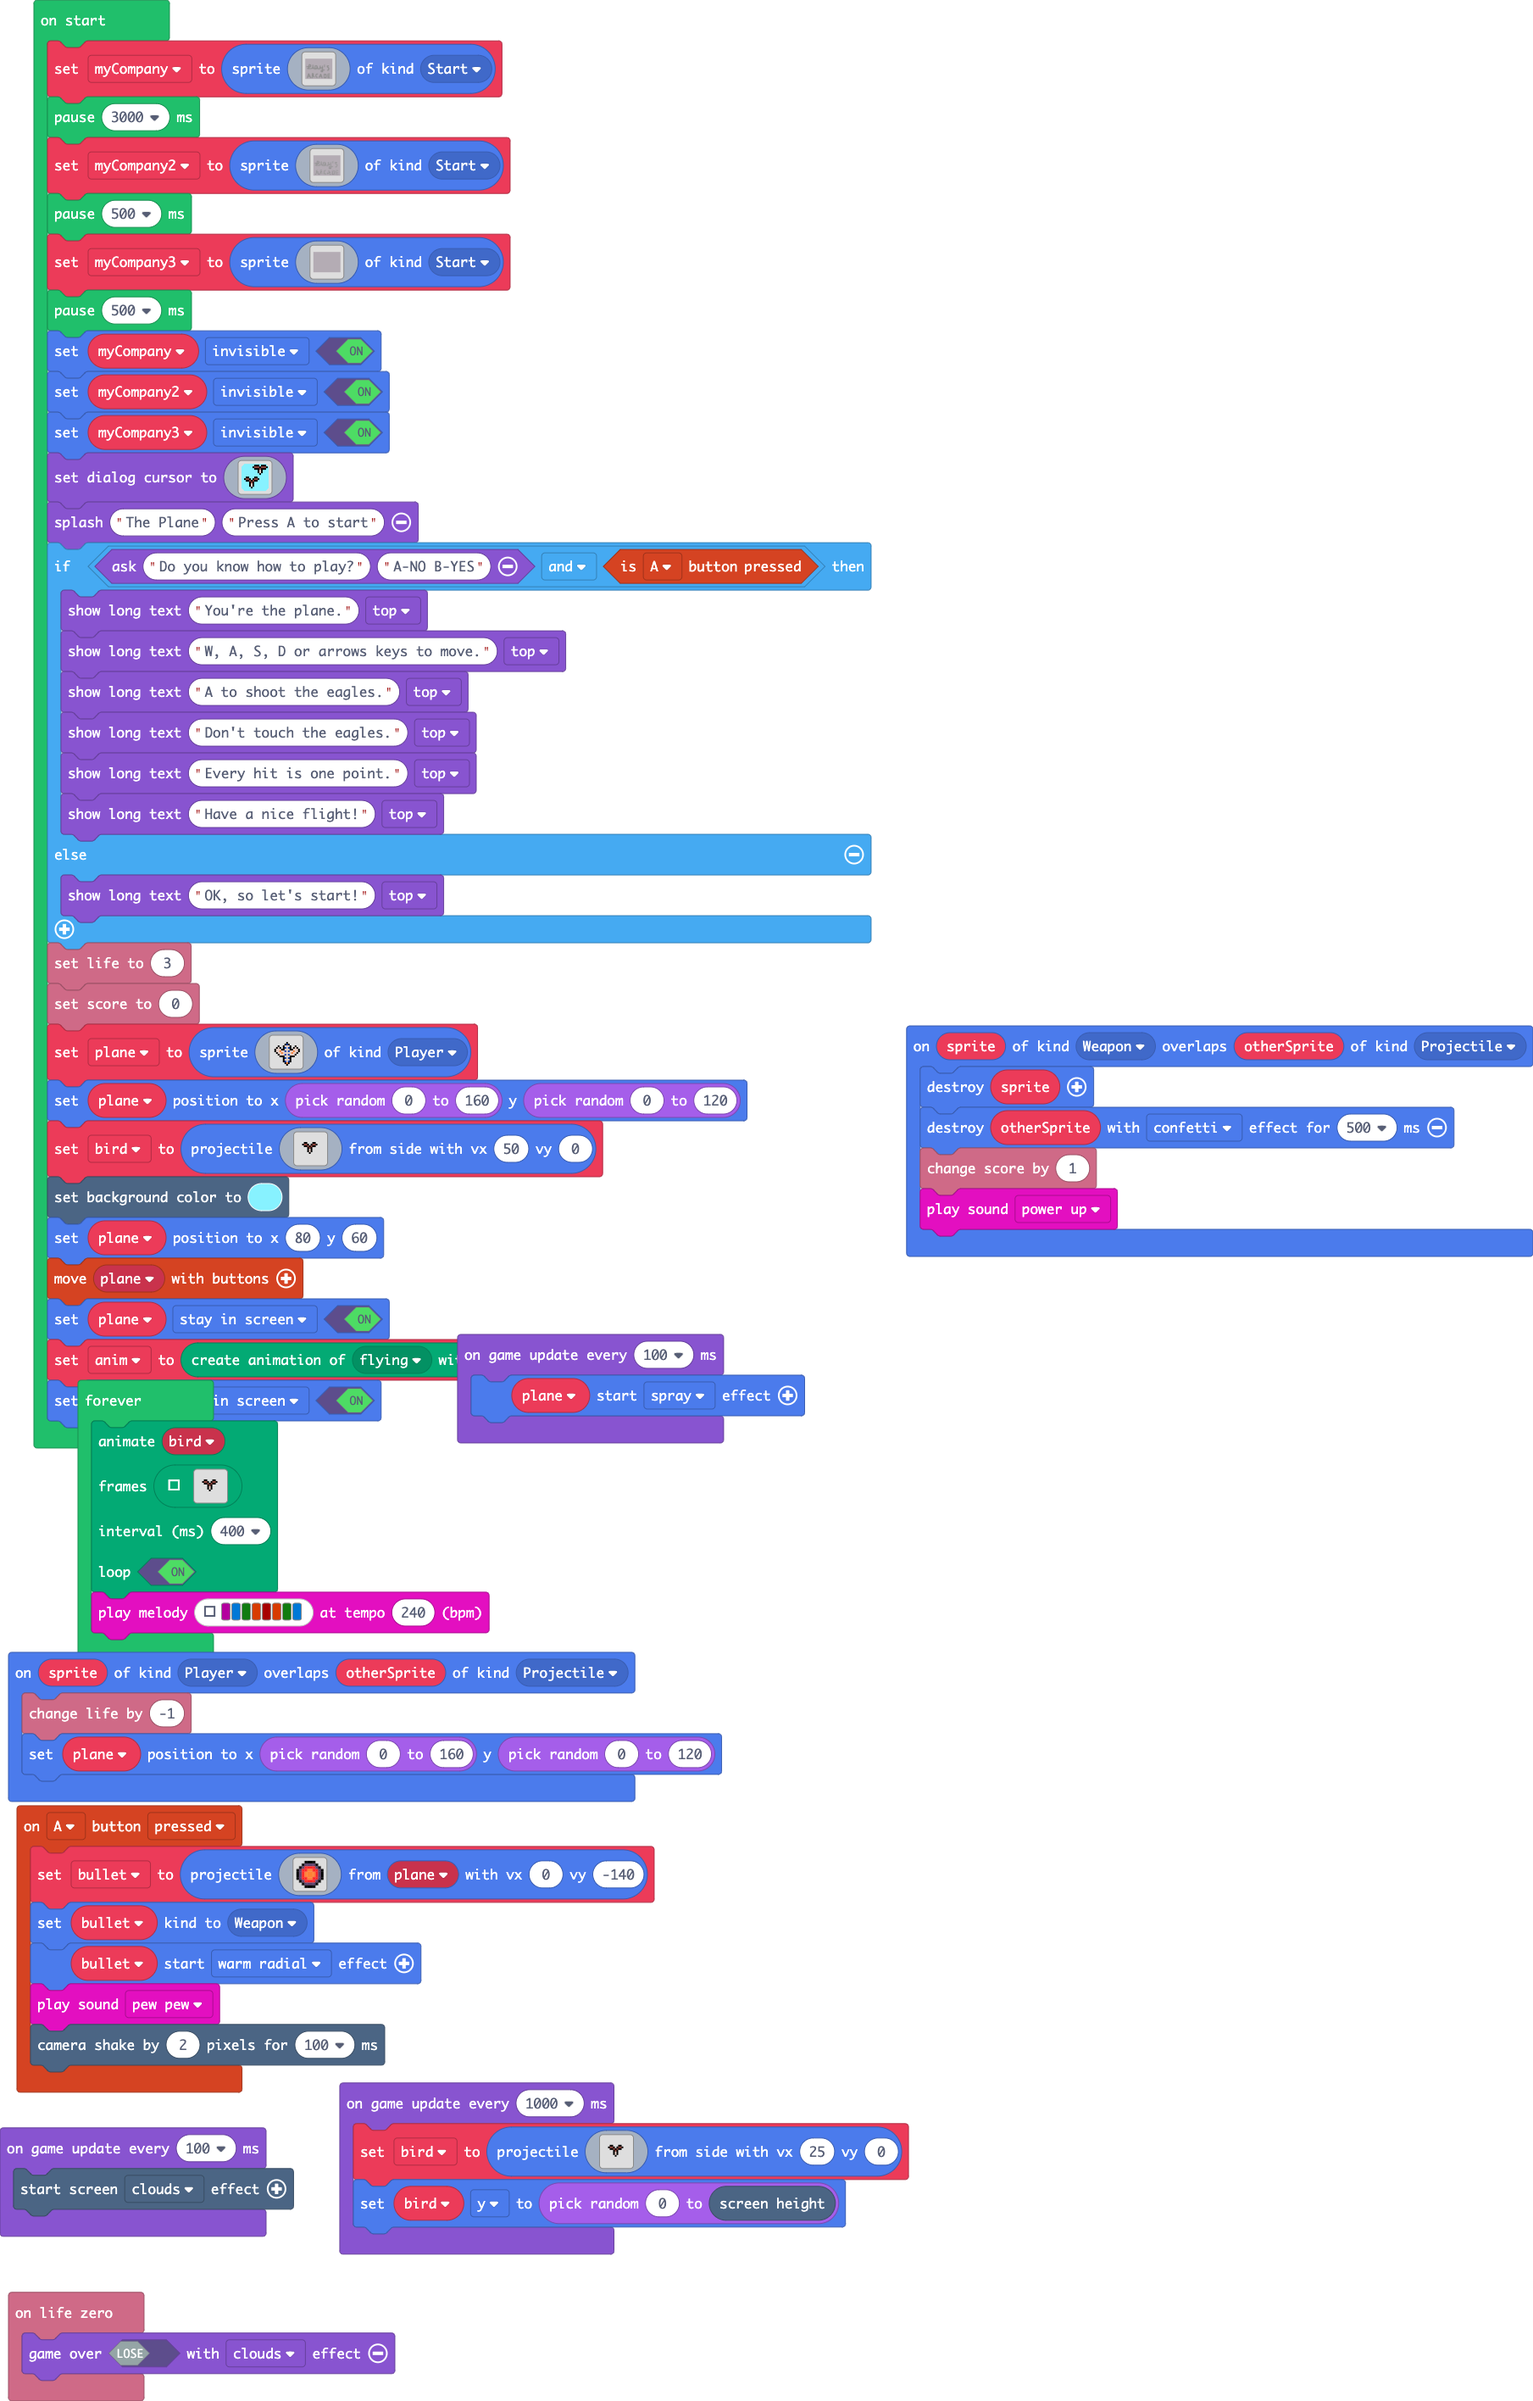
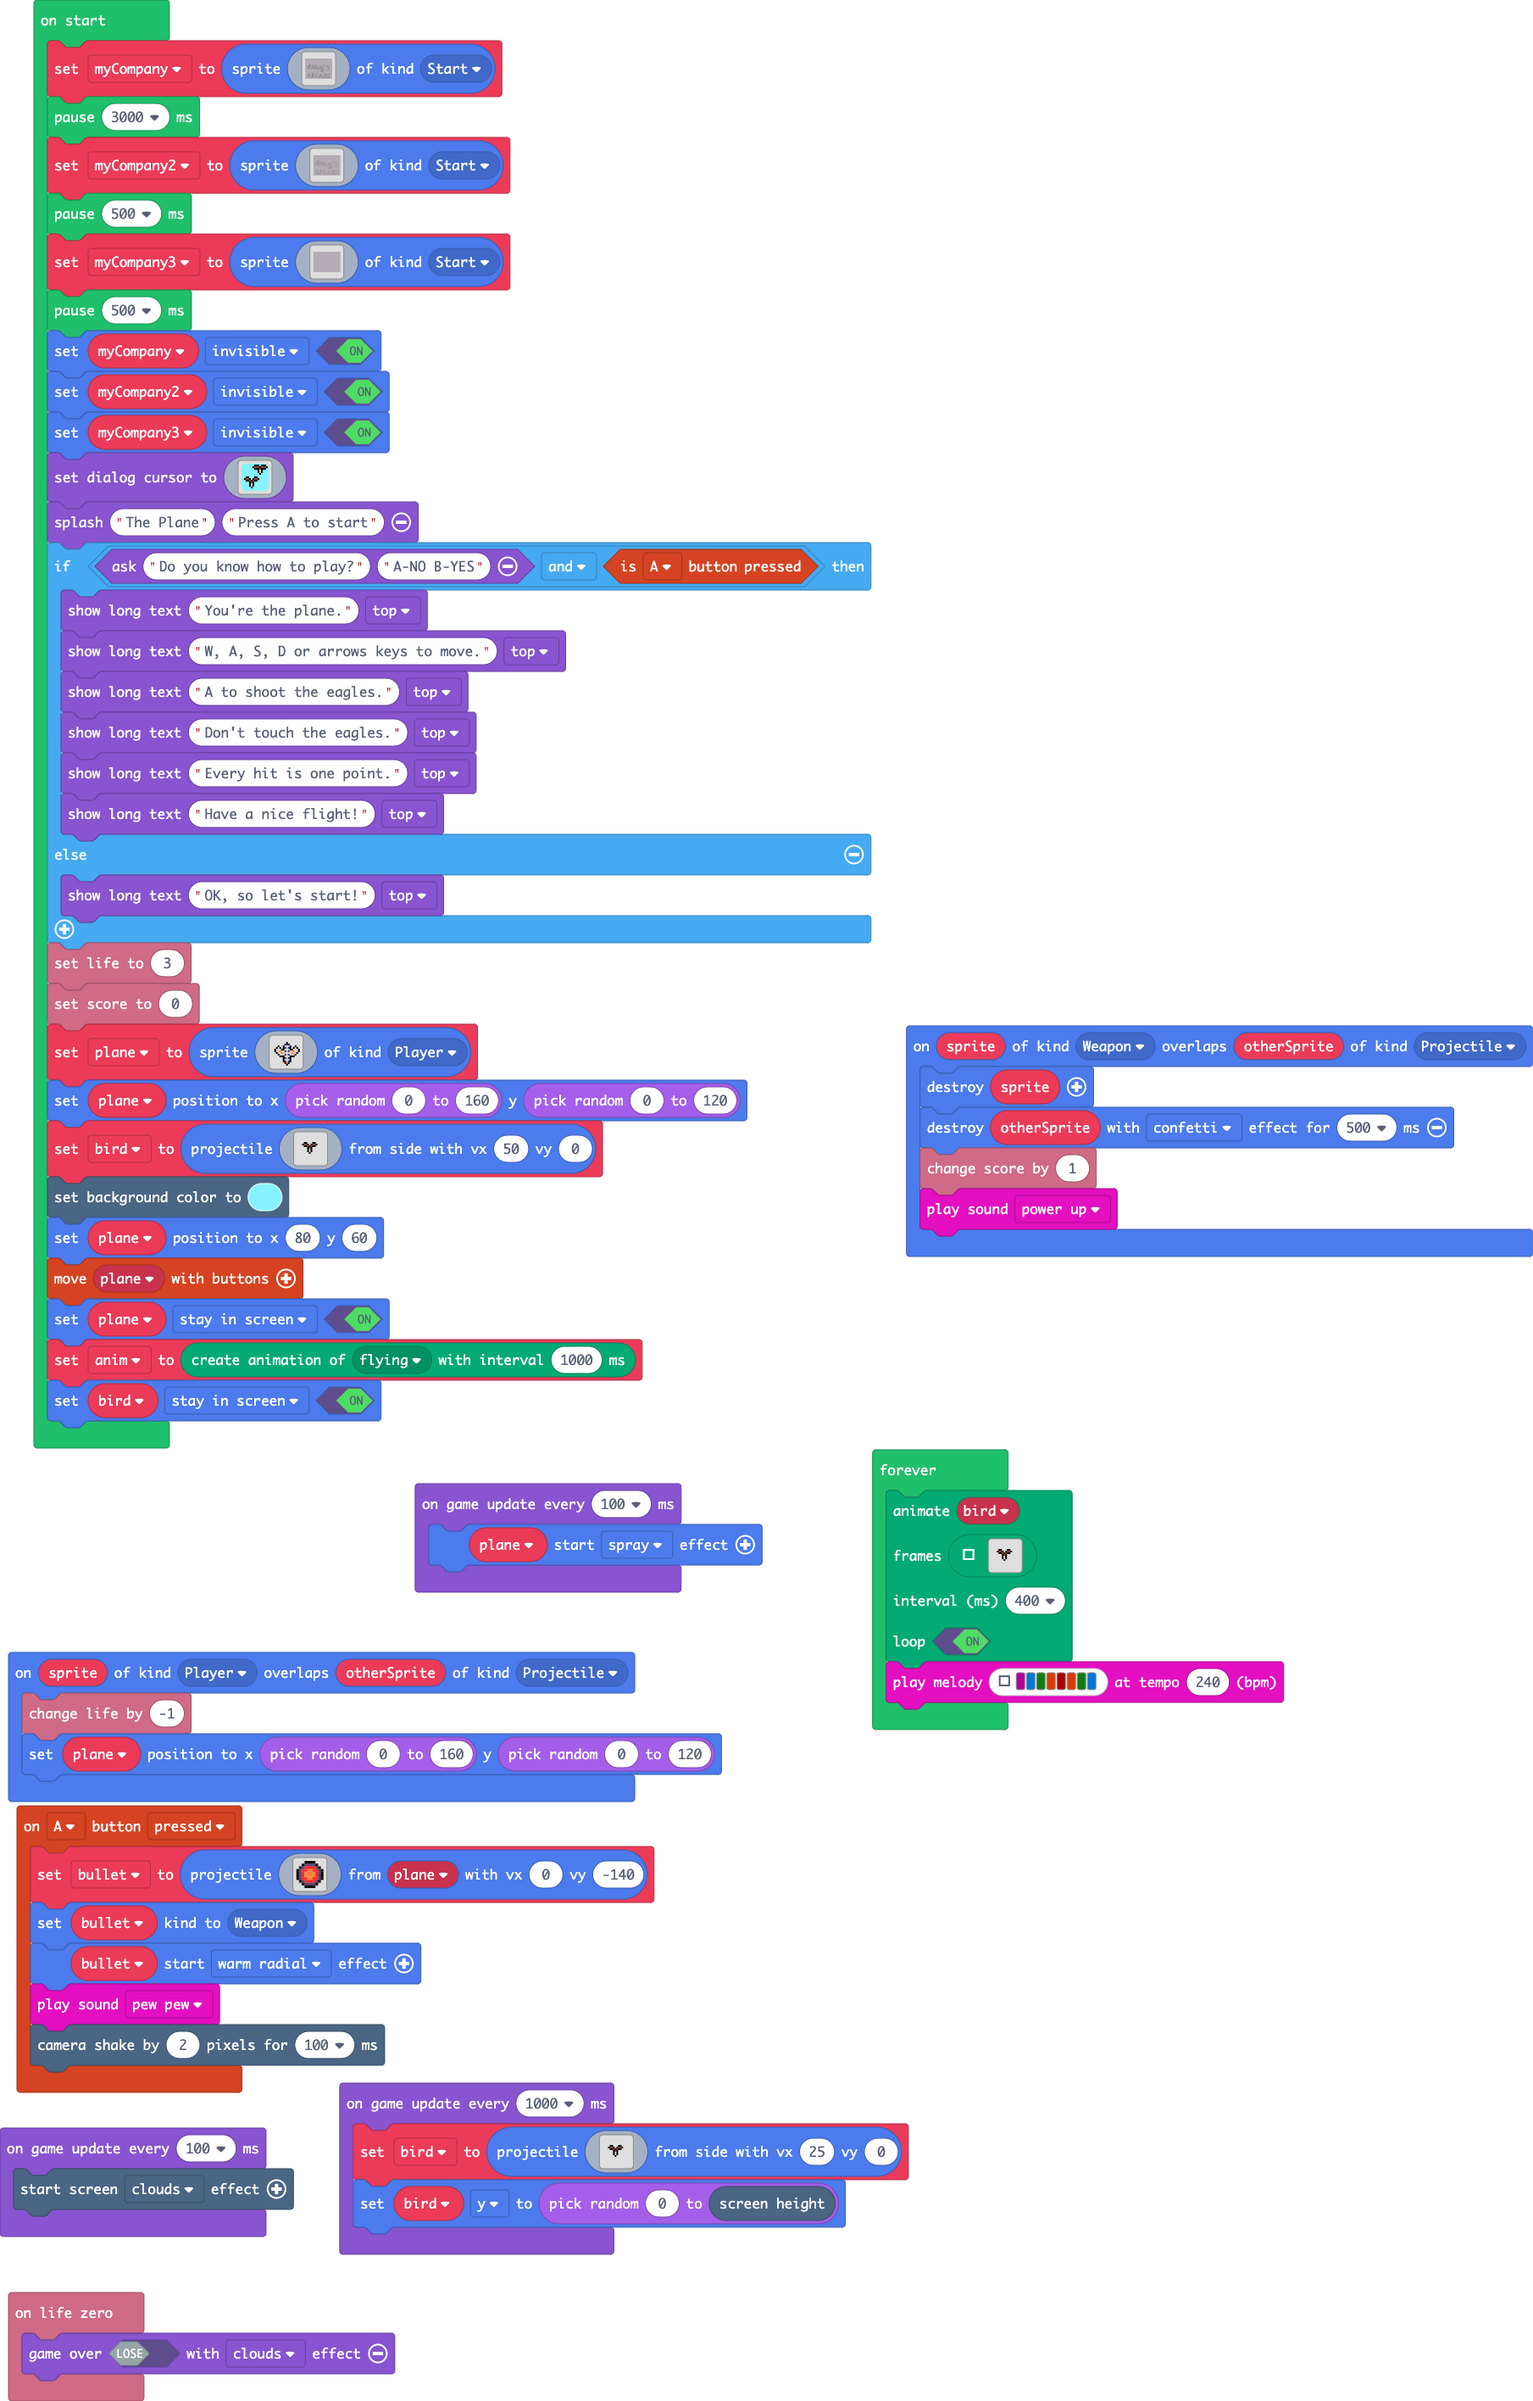
Update main.blocks, main.ts

Changed region(s): [[0.031, 0.5282, 0.5263, 0.7147], [0.5572, 0.5904, 0.8358, 0.7458]]

diff --git a/main.ts b/main.ts
@@ -84,11 +84,11 @@ c c c c c c c c c c c c c c c c c c c c f f f f f f f f f f f f f f f c c c c c 
 c c c c c c c c c c c c c c c c c c c f f f f f f f c f f f f f f f f c c c c c c c c f f f f f c c c c c c c c c c c c c f f f f f f f c c c c c c c c c c c c c c c c c c c c c c c c c c c c c c c c c c c c c c c c c c c c f f f f f c c c c c c c c c c c c c c c c c c c c c c c c c c c c c c c c c c c c c c c c c c c 
 c c c c c c c c c c c c c c c c c c c f f f f f f c c c c f f f f f f f c c c c c c c f f f f f c c c c c c c c c c c f f f f f f f f f f f c c c c c c c c c c c c c c c c c c c c c c c c c c c c c c c c c c c c c c c c c c f f f f f c c c c c c c c c c c c c f f f f f f f f f f c c c c c c c c c c c c c c c c c c c c 
 c c c c c c c c c c c c c c c c c c c f f f f f f c c c c c f f f f f f c c c c c c c f f f f f c c c c c c c c c c f f f f f f f f f f f f f c c c c c c c c c c c c c c c c f f f f f c c c c c c c c c c c c c c c c c c c c f f f f f c c c c c c c c c c c f f f f f f f f f f f f c c c c c c c c c c c c c c c c c c c c 
-c c c c c c c c c c c c c c c c c c c f f f f f f c c c c c f f f f f f c c c c c c c f f f f f f c c c c c c c c f f f f f f f f f f f f f f f c c c c c c c c c c c c c c f f f f f f c c c c c c c c f f f f f c c c c c c c f f f f f c c c c c c c c c c c f f f f f f f f f f f f c c c c c c c c c c c c c c c c c c c c 
-c c c c c c c c c c c c c c c c c c c f f f f f f c c c c f f f f f f f c c c c c c c f f f f f f c c c c c c c f f f f f f f f f f f f f f f f f c c c c c c c c c c c c c f f f f f f c c c c c c c c f f f f f c c c c c c c f f f f f c c c c c c c c c c c f f f f f f f f f f f f c c c c c c c c c c c c c c c c c c c c 
-c c c c c c c f f f f f f c c c c c c f f f f f f c c c f f f f f f f f c c c c c c c f f f f f f c c c c c c c f f f f f f f f f f f f f f f f f c c c c c c c c c c c c c f f f f f f c c c c c c c c f f f f f c c c c c c c f f f f f c c c c c c c c c c c f f f f f f f f f f f f c c c c c c c c c c c c c c c c c c c c 
-c c c c c c c f f f f f f f f f f f f f f f f f f f f f f f f f f f f f c c c c c c c f f f f f f c c c c c c c f f f f f f f c c c f f f f f f f f c c c c c c c c c c c c f f f f f f c c c c c c c c f f f f f c c c c c c c f f f f f c c c c c c c c c c c f f f f f f c c c c c c c c c c c c c c c c c c c c c c c c c c 
-c c c c c c c f f f f f f f f f f f f f f f f f f f f f f f f f f f f c c c c c c c c f f f f f f c c c c c c c f f f f f f c c c c c f f f f f f f c c c c c c c c c c c c f f f f f f c c c c c c c f f f f f f c c c c c c c f f f f f c c c c c c c c c c c f f f f f f c c c c c c c c c c c c c c c c c c c c c c c c c c 
+c c c c c c c c c c c c c c c c c c c f f f f f f c c c c c f f f f f f c c f f f f f f f f f f f f f f f c c c c f f f f f f f f f f f f f f f c c c c c c c c c c c c c c f f f f f f c c c c c c c c f f f f f c c c c c c c f f f f f c c c c c c c c c c c f f f f f f f f f f f f c c c c c c c c c c c c c c c c c c c c 
+c c c c c c c c c c c c c c c c c c c f f f f f f c c c c f f f f f f f c c f f f f f f f f f f f f f f f c c c f f f f f f f f f f f f f f f f f c c c c c c c c c c c c c f f f f f f c c c c c c c c f f f f f c c c c c c c f f f f f c c c c c c c c c c c f f f f f f f f f f f f c c c c c c c c c c c c c c c c c c c c 
+c c c c c c c f f f f f f c c c c c c f f f f f f c c c f f f f f f f f c c f f f f f f f f f f f f f f f c c c f f f f f f f f f f f f f f f f f c c c c c c c c c c c c c f f f f f f c c c c c c c c f f f f f c c c c c c c f f f f f c c c c c c c c c c c f f f f f f f f f f f f c c c c c c c c c c c c c c c c c c c c 
+c c c c c c c f f f f f f f f f f f f f f f f f f f f f f f f f f f f f c c f f f f f f f f f f f f f f f c c c f f f f f f f c c c f f f f f f f f c c c c c c c c c c c c f f f f f f c c c c c c c c f f f f f c c c c c c c f f f f f c c c c c c c c c c c f f f f f f c c c c c c c c c c c c c c c c c c c c c c c c c c 
+c c c c c c c f f f f f f f f f f f f f f f f f f f f f f f f f f f f c c c f f f f f f f f f f f f f f f c c c f f f f f f c c c c c f f f f f f f c c c c c c c c c c c c f f f f f f c c c c c c c f f f f f f c c c c c c c f f f f f c c c c c c c c c c c f f f f f f c c c c c c c c c c c c c c c c c c c c c c c c c c 
 c c c c c c c f f f f f f f f f f f f f f f f f f f f f f f f f f f c c c c c c c c c f f f f f f c c c c c c c f f f f f f c c c c c f f f f f f f c c c c c c c c c c c c f f f f f f c c c c c c c f f f f f f c c c c c c c f f f f f c c c c c c c c c c c f f f f f f f c c c c c c c c c c c c c c c c c c c c c c c c c 
 c c c c c c c f f f f f f f f f f f f f f f f f f f f f f f f f f f c c c c c c c c c f f f f f f c c c c c c c f f f f f c c c c c c c f f f f f f c c c c c c c c c c c f f f f f f f c c c c c c c f f f f f f c c c c c c c f f f f f c c c c c c c c c c c f f f f f f f f c c c c c c c c c c c c c c c c c c c c c c c c 
 c c c c c c c c f f f f f f f f f f f f f f f f f f f f f f f f c c c c c c c c c c c f f f f f f c c c c c c c f f f f f c c c c c c c f f f f f f c c c c c c c c c c c f f f f f f f c c c c c c c f f f f f f c c c c c c c f f f f f c c c c c c c c c c c c f f f f f f f f f c c c c c c c c c c c c c c c c c c c c c c 
@@ -208,11 +208,11 @@ c c c c c c c c c c c c c c c c c c c f f f f f f f c c c c f f f f f c c c c c 
 c c c c c c c c c c c c c c c c c c c c c c f f f c c c c f f f f f f f c c c c c c c c c c f f c c c c c c c c c c c f f f f c c c f f f f c c c c c c c c c c c c c c c c c c c c c c c c c c c c c c c c c c c c c c c c c c f f c c c c c c c c c c c c c c c c f f f f f f f f f f c c c c c c c c c c c c c c c c c c c c 
 c c c c c c c c c c c c c c c c c c c c c c f f f c c c c c f f f f f f c c c c c c c f f f f f c c c c c c c c c c f f f f f c c c f f f f f c c c c c c c c c c c c c c c c f f f f f c c c c c c c c c c c c c c c c c c c c f f c c c c c c c c c c c c c c f f f f f f f f f f f f c c c c c c c c c c c c c c c c c c c c 
 c c c c c c c c c c c c c c c c c c c c c c f f f c c c c c f f f c c c c c c c c c c f f f f f f c c c c c c c c f f c c c f c c c f f c c c f c c c c c c c c c c c c c c f f f f f f c c c c c c c c f f f f f c c c c c c c f f f f f c c c c c c c c c c c f f f f f f c c c f f f c c c c c c c c c c c c c c c c c c c c 
-c c c c c c c c c c c c c c c c c c c f f f f f f c c c c f f f f c c c c c c c c c c f f f f f f c c c c c c c f f f c c c f f f f f f c c c f f c c c c c c c c c c c c c f f f f f f c c c c c c c c f f f f f c c c c c c c f f f f f c c c c c c c c c c c f f f f f f c c c f f f c c c c c c c c c c c c c c c c c c c c 
-c c c c c c c f f f f f f c c c c c c f f f f f f c c c f f f f f c c c c c c c c c c f f c c c f c c c c c c c f f f c c c f f f f f f c c c f f c c c c c c c c c c c c c f f f f f f c c c c c c c c f f f f f c c c c c c c f f f f f c c c c c c c c c c c f f f f f f c c c f f f c c c c c c c c c c c c c c c c c c c c 
-c c c c c c c f c c c f f f f f f f f f f f f f f f f f f f f f f f f f c c c c c c c f f c c c f c c c c c c c f f f f f f f c c c f f f f f f f f c c c c c c c c c c c c f f c c c f c c c c c c c c f f f f f c c c c c c c c c c c c c c c c c c c c c c c f f f c c c c c c c c c c c c c c c c c c c c c c c c c c c c c 
-c c c c c c c f c c c f f f f f f f f f c c c f f f f f f f f f f f f c c c c c c c c f f c c c f c c c c c c c f f f f f f c c c c c f f f f f f f c c c c c c c c c c c c f f c c c f c c c c c c c f f f f f f c c c c c c c c c c c c c c c c c c c c c c c f f f c c c c c c c c c c c c c c c c c c c c c c c c c c c c c 
-c c c c c c c f c c c f f f f f f f f f c c c f f f f f f f f f f f c c c c c c c c c f f f f f f c c c c c c c f f f f f f c c c c c f f f f f f f c c c c c c c c c c c c f f c c c f c c c c c c c f f c c c f c c c c c c c c c c c c c c c c c c c c c c c f f f c c c f c c c c c c c c c c c c c c c c c c c c c c c c c 
+c c c c c c c c c c c c c c c c c c c f f f f f f c c c c f f f f c c c c c f f f f f f f f f f c c c f f c c c f f f c c c f f f f f f c c c f f c c c c c c c c c c c c c f f f f f f c c c c c c c c f f f f f c c c c c c c f f f f f c c c c c c c c c c c f f f f f f c c c f f f c c c c c c c c c c c c c c c c c c c c 
+c c c c c c c f f f f f f c c c c c c f f f f f f c c c f f f f f c c c c c f c c c f f c c c f c c c f f c c c f f f c c c f f f f f f c c c f f c c c c c c c c c c c c c f f f f f f c c c c c c c c f f f f f c c c c c c c f f f f f c c c c c c c c c c c f f f f f f c c c f f f c c c c c c c c c c c c c c c c c c c c 
+c c c c c c c f c c c f f f f f f f f f f f f f f f f f f f f f f f f f c c f c c c f f c c c f c c c f f c c c f f f f f f f c c c f f f f f f f f c c c c c c c c c c c c f f c c c f c c c c c c c c f f f f f c c c c c c c c c c c c c c c c c c c c c c c f f f c c c c c c c c c c c c c c c c c c c c c c c c c c c c c 
+c c c c c c c f c c c f f f f f f f f f c c c f f f f f f f f f f f f c c c f c c c f f c c c f f f f f f c c c f f f f f f c c c c c f f f f f f f c c c c c c c c c c c c f f c c c f c c c c c c c f f f f f f c c c c c c c c c c c c c c c c c c c c c c c f f f c c c c c c c c c c c c c c c c c c c c c c c c c c c c c 
+c c c c c c c f c c c f f f f f f f f f c c c f f f f f f f f f f f c c c c f f f f f f f f f f f f f f f c c c f f f f f f c c c c c f f f f f f f c c c c c c c c c c c c f f c c c f c c c c c c c f f c c c f c c c c c c c c c c c c c c c c c c c c c c c f f f c c c f c c c c c c c c c c c c c c c c c c c c c c c c c 
 c c c c c c c f f f f f f f f f f f f f c c c f f f f f f f f f f f c c c c c c c c c f f f f f f c c c c c c c f f f f f c c c c c c c f f f f f f c c c c c c c c c c c f f f f f f f c c c c c c c f f c c c f c c c c c c c f f f f f c c c c c c c c c c c f f f f f f f f c c c c c c c c c c c c c c c c c c c c c c c c 
 c c c c c c c c f f f f f f f f f f f f f f f f f f f f f f f f c c c c c c c c c c c f f f f f f c c c c c c c f f c c c c c c c c c c f f f f f f c c c c c c c c c c c c c c f f f f c c c c c c c f f c c c f c c c c c c c f f f f f c c c c c c c c c c c c f c c c f f f f f c c c c c c c c c c c c c c c c c c c c c c 
 c c c c c c c c c c c c c c c c f f f f f f f f f f f c c c c c c c c c c c c c c c c f f f f f f f c c c c c c f f c c c c c c c c c f f c c c c f c c c c c c c c c c c c c c c f f f f c c c c c f f f f f f f c c c c c c c c c c c c c c c c c c c c c c c c f c c c f f f f f f c c c c c c c c c c c c c c c c c c c c c 
